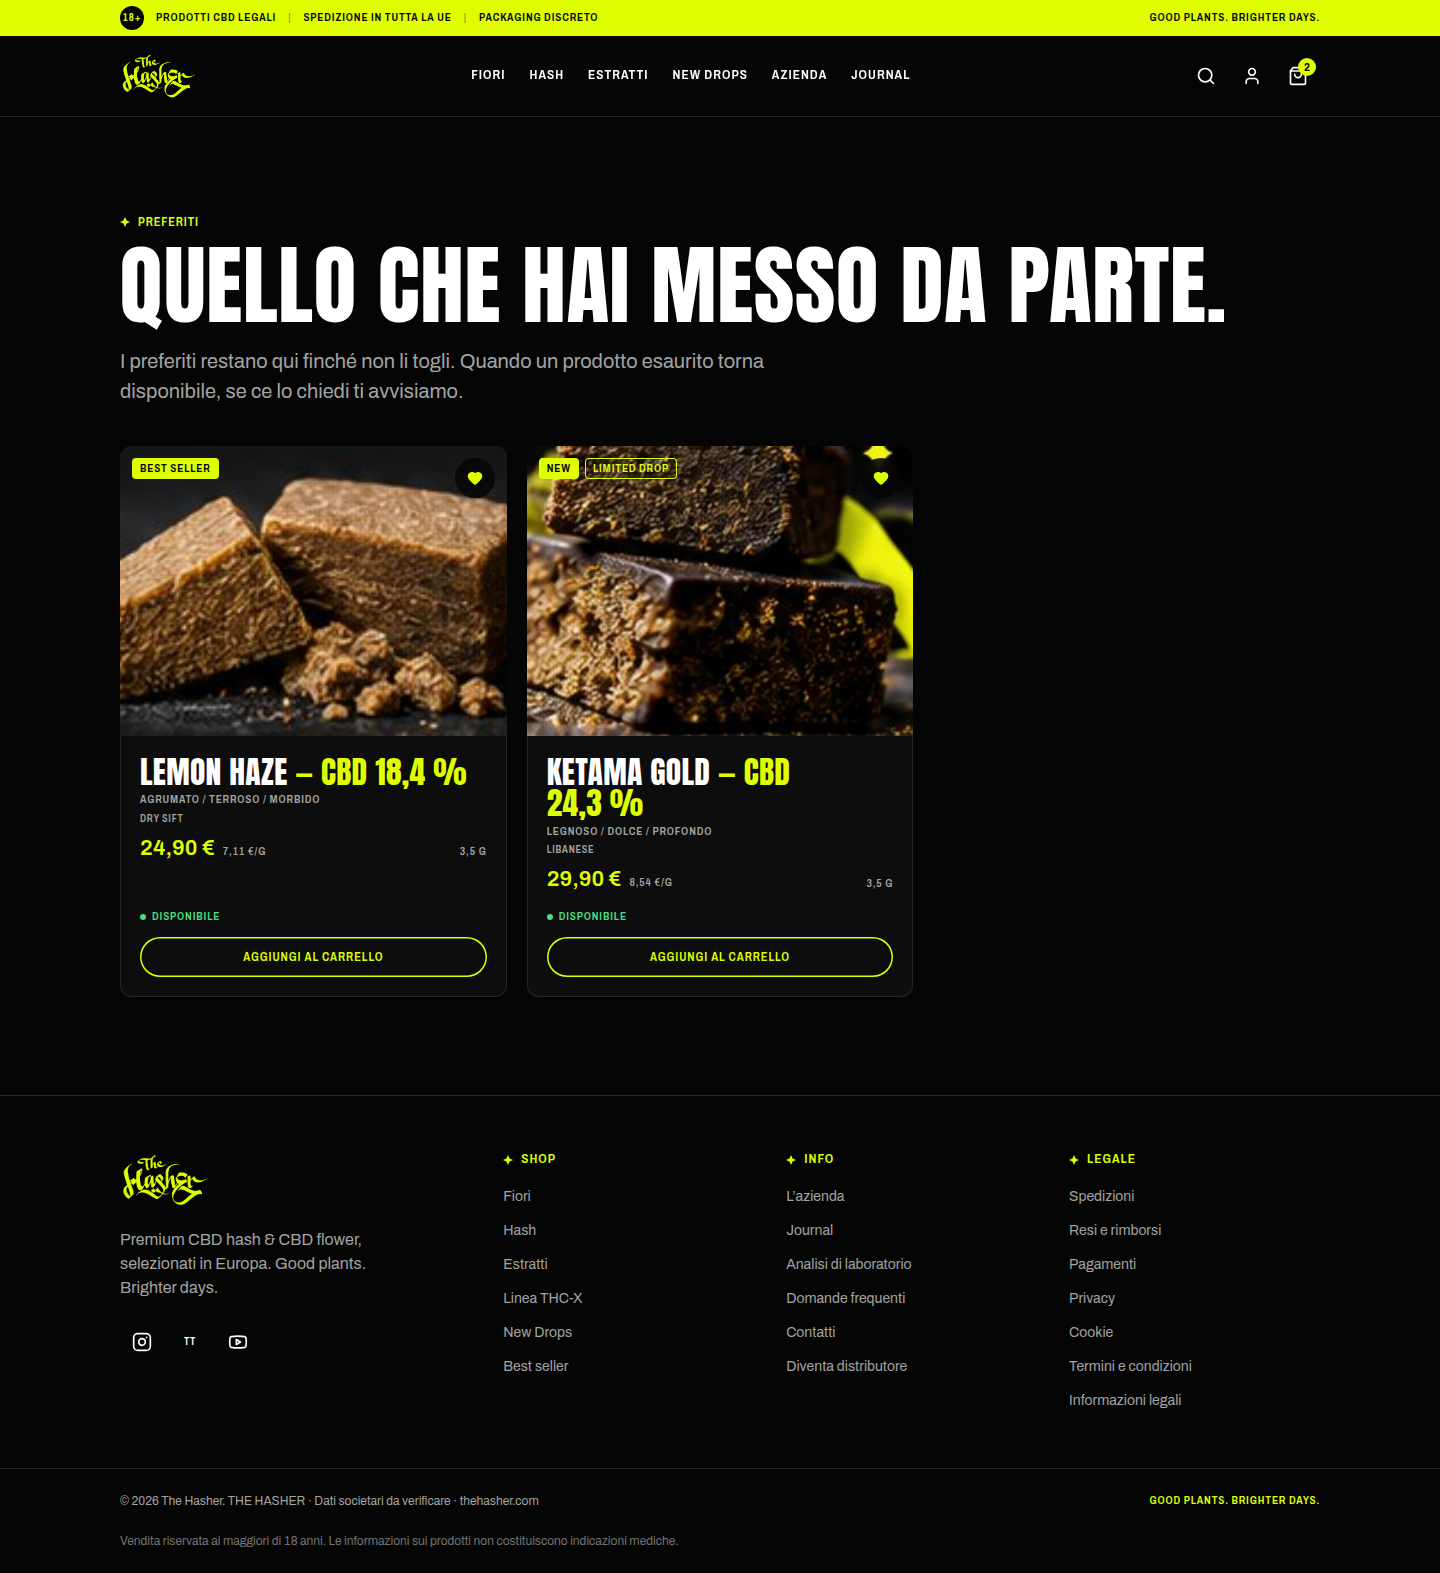
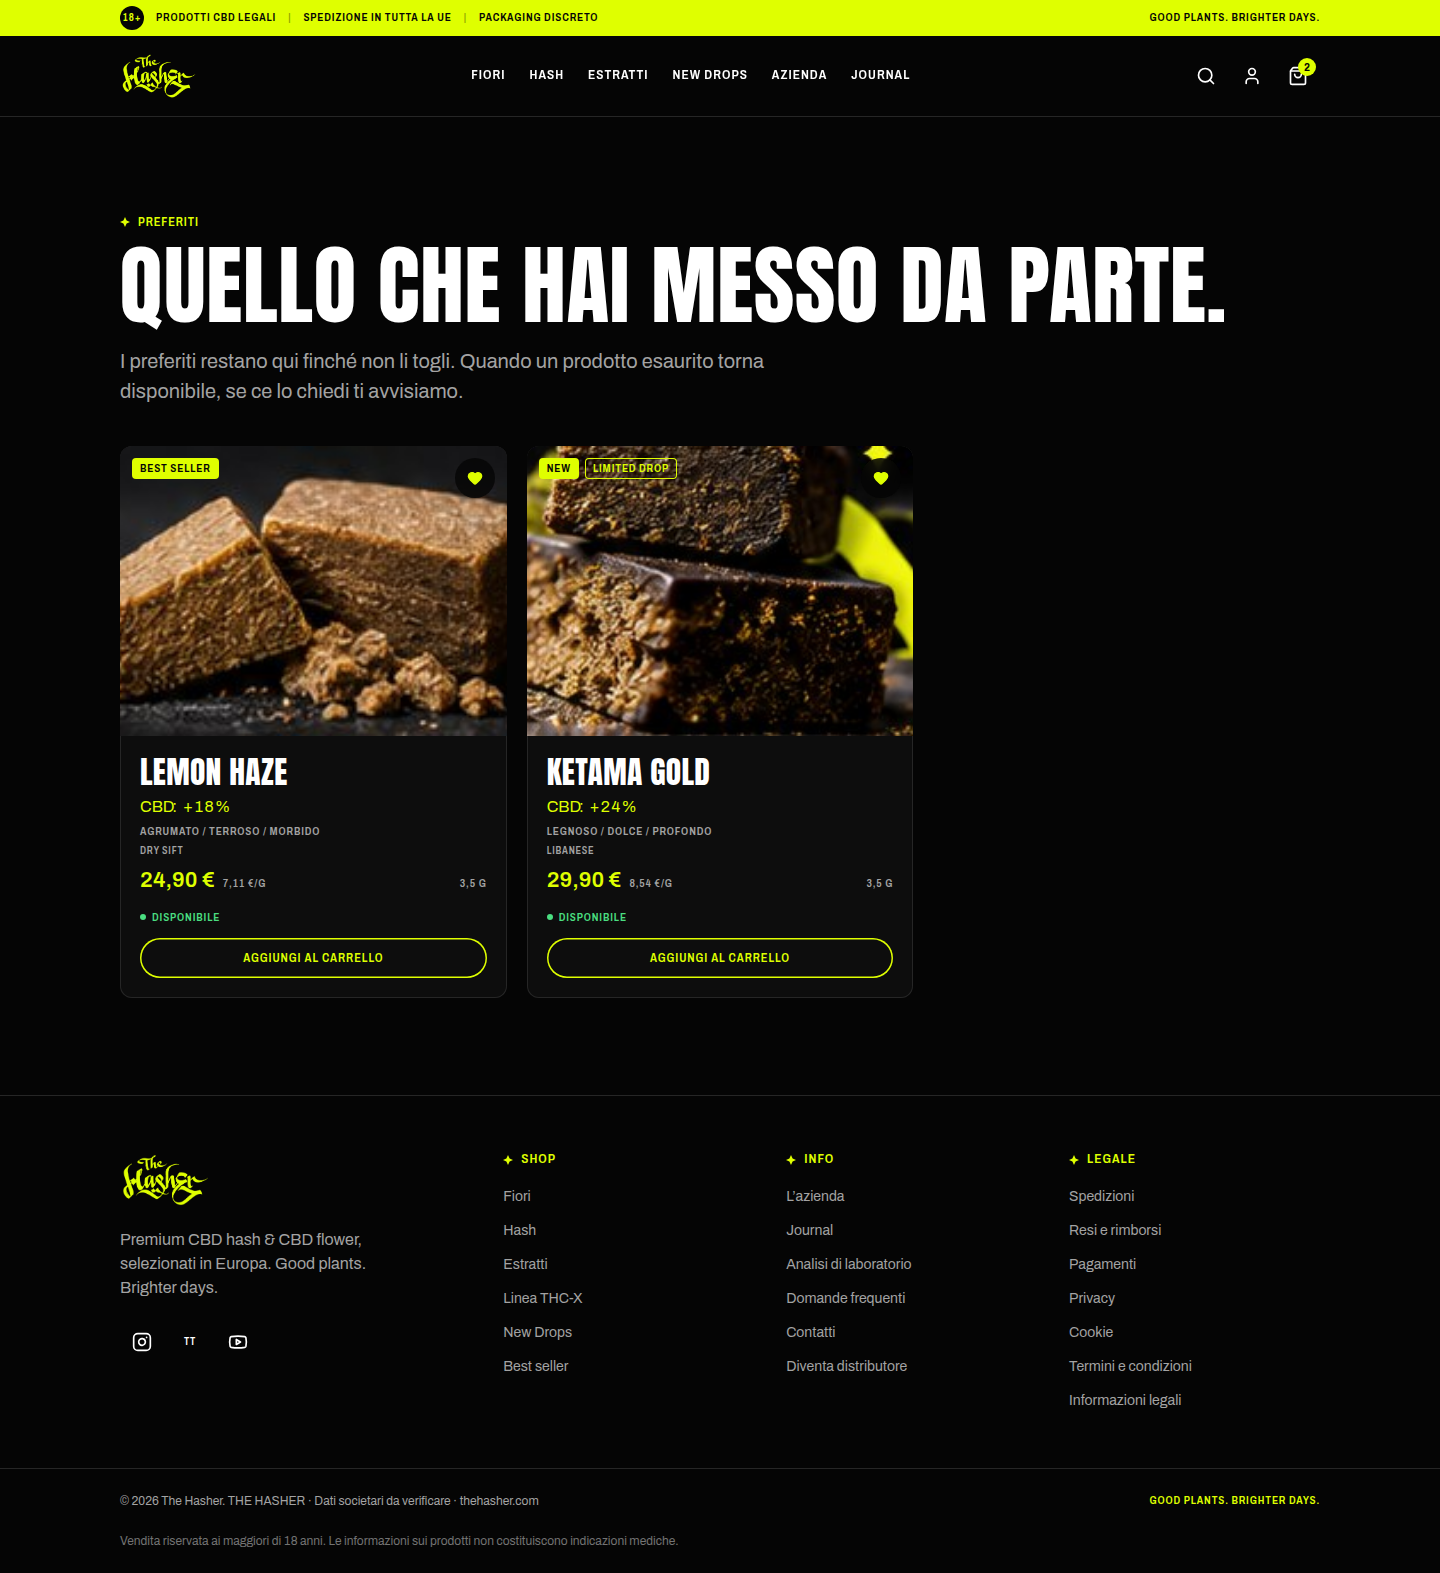
Cannabinoide come sottotitolo giallo: «CBD: +31%»
Scelta la seconda bozza. Sotto il nome del prodotto, in giallo, grassetto
e molto spaziato: sigla distanziata, valore compatto, percentuale arrotondata
all'intero sotto. Stessa regola su schede, negozio, preferiti e pagina
prodotto; la percentuale segue il cannabinoide filtrato.

Nuovo stile di testo text-attivo con il token --tracking-attivo e componente
Attivo condiviso, entrambi documentati nella Styleguide insieme alle pillole
dei filtri. Tolta la variante di prova ?stile=b.

Claude-Session: https://claude.ai/code/session_01PPPZbsQhydRMweje4EtK5n

diff --git a/src/components/ui/ProductCard.tsx b/src/components/ui/ProductCard.tsx
@@ -1,9 +1,9 @@
 import { Link } from 'react-router-dom'
+import { Attivo } from '@/components/ui/Attivo'
 import { Badge } from '@/components/ui/Badge'
 import { Button } from '@/components/ui/Button'
 import { Price } from '@/components/ui/Price'
 import {
-  attivoPrincipale,
   etichettaCategoria,
   formatQuantita,
   productPath,
@@ -22,18 +22,14 @@ import { cn } from '@/lib/cn'
 export function ProductCard({
   product,
   evidenzia,
-  percentuale = 'titolo',
   className,
 }: {
   product: Product
   /** Cannabinoide da mostrare al posto del principale (segue il filtro) */
   evidenzia?: Cannabinoide | null
-  /** Dove finisce la percentuale: dopo il nome (A) o come sottotitolo giallo (B) */
-  percentuale?: 'titolo' | 'sottotitolo'
   className?: string
 }) {
   const { add } = useCart()
-  const attivo = attivoPrincipale(product, evidenzia)
   return (
     <article
       className={cn(
@@ -67,15 +63,8 @@ export function ProductCard({
             <Link to={productPath(product.slug)} className="transition hocus:text-primary">
               {product.name}
             </Link>
-            {attivo && percentuale === 'titolo' && (
-              <span className="text-primary"> — {attivo}</span>
-            )}
           </h3>
-          {attivo && percentuale === 'sottotitolo' && (
-            <p className="mt-2 text-[0.875rem] font-bold tracking-attivo text-primary uppercase">
-              {attivo}
-            </p>
-          )}
+          <Attivo product={product} evidenzia={evidenzia} className="mt-2" />
           <p className="mt-1.5 label text-[0.6875rem] text-fg-muted">{product.aroma.join(' / ')}</p>
           <p className="mt-1.5 label text-[0.625rem] text-fg-muted">{tagLavorazione(product)}</p>
         </div>

diff --git a/src/pages/Product.tsx b/src/pages/Product.tsx
@@ -13,6 +13,7 @@ import {
 } from 'lucide-react'
 import { useEffect, useRef, useState } from 'react'
 import { Link, useParams } from 'react-router-dom'
+import { Attivo } from '@/components/ui/Attivo'
 import { Badge } from '@/components/ui/Badge'
 import { Button } from '@/components/ui/Button'
 import { Card } from '@/components/ui/Card'
@@ -25,14 +26,7 @@ import { ProductGallery } from '@/components/ui/ProductGallery'
 import { QuantityInput } from '@/components/ui/QuantityInput'
 import { Reveal } from '@/components/ui/Reveal'
 import { Section, SectionHeader } from '@/components/ui/Section'
-import {
-  attivoPrincipale,
-  categorie,
-  findProduct,
-  products,
-  tagLavorazione,
-  type Variant,
-} from '@/data/products'
+import { categorie, findProduct, products, tagLavorazione, type Variant } from '@/data/products'
 import { site } from '@/data/site'
 import { useCart } from '@/lib/cart'
 import { cn } from '@/lib/cn'
@@ -136,12 +130,8 @@ export default function Product() {
               </div>
             )}
             <Eyebrow>{categoryLabel}</Eyebrow>
-            <h1 className="mt-3 text-h1 text-pretty">
-              {product.name}
-              {attivoPrincipale(product) && (
-                <span className="text-primary"> — {attivoPrincipale(product)}</span>
-              )}
-            </h1>
+            <h1 className="mt-3 text-h1 text-pretty">{product.name}</h1>
+            <Attivo product={product} className="mt-3 text-[1.0625rem] md:text-[1.25rem]" />
             <p className="mt-3 label text-[0.75rem] text-fg-muted">
               {product.aroma.join(' / ')}
               {tagLavorazione(product) && (

diff --git a/src/pages/Styleguide.tsx b/src/pages/Styleguide.tsx
@@ -4,6 +4,7 @@ import { Button } from '@/components/ui/Button'
 import { Card } from '@/components/ui/Card'
 import { Container } from '@/components/ui/Container'
 import { Diamond } from '@/components/ui/Diamond'
+import { Chip } from '@/components/ui/Chip'
 import { Eyebrow } from '@/components/ui/Eyebrow'
 import { Input } from '@/components/ui/Input'
 import { Logo } from '@/components/ui/Logo'
@@ -60,6 +61,11 @@ const typeScale = [
     cls: 'label text-eyebrow text-primary',
     name: 'eyebrow',
     sample: 'Good plants. Brighter days.',
+  },
+  {
+    cls: 'text-attivo text-primary',
+    name: 'text-attivo · cannabinoide',
+    sample: 'CBD: +31%',
   },
 ]
 
@@ -188,6 +194,23 @@ export default function Styleguide() {
           <div className="mt-6 flex flex-wrap items-end gap-8">
             <Price cents={2490} grams={3.5} />
             <Price cents={1990} compareAt={2370} grams={3} size="lg" />
+          </div>
+
+          <h3 className="mt-12 text-h3">Pillole dei filtri</h3>
+          <div className="mt-6 flex flex-wrap items-center gap-2">
+            <Chip size="sm" active onClick={() => {}}>
+              CBD
+            </Chip>
+            <Chip size="sm" onClick={() => {}}>
+              THC-X
+            </Chip>
+            <Chip size="sm" count={6} onClick={() => {}}>
+              Indoor
+            </Chip>
+            <Chip size="sm" count={0} disabled onClick={() => {}}>
+              Trim
+            </Chip>
+            <Chip onClick={() => {}}>Misura grande</Chip>
           </div>
 
           <h3 className="mt-12 text-h3">Campi</h3>

diff --git a/src/data/products.ts b/src/data/products.ts
@@ -844,19 +844,33 @@ export function formatQuantita(p: Product) {
 }
 
 /**
- * Etichetta del cannabinoide principale, es. "CBD 18,4 %".
+ * Etichetta del cannabinoide principale, es. "CBD: +18%".
+ * La percentuale è arrotondata all'intero sotto: il lotto ne contiene almeno tanto.
  * Se si sta filtrando per un cannabinoide, mostra quello: così la percentuale
  * in pagina è sempre quella che l'utente sta cercando.
  */
 export function attivoPrincipale(p: Product, preferito?: Cannabinoide | null) {
   if (preferito) {
     const v = p.attivi[chiaveAttivo[preferito]] ?? 0
-    if (v > 0) return `${preferito} ${numero(v)} %`
+    if (v > 0) return etichettaAttivo(preferito, v)
   }
   const top = cannabinoidi
     .map((c) => ({ c, v: p.attivi[chiaveAttivo[c]] ?? 0 }))
     .sort((a, b) => b.v - a.v)[0]
-  return top && top.v > 0 ? `${top.c} ${numero(top.v)} %` : null
+  return top && top.v > 0 ? etichettaAttivo(top.c, top.v) : null
+}
+
+const etichettaAttivo = (c: Cannabinoide, v: number) => `${c}: +${Math.floor(v)}%`
+
+/**
+ * Le due parti dell'etichetta, separate: la sigla va spaziata, il valore no.
+ * Serve al sottotitolo giallo di schede e pagina prodotto.
+ */
+export function attivoParti(p: Product, preferito?: Cannabinoide | null) {
+  const label = attivoPrincipale(p, preferito)
+  if (!label) return null
+  const [sigla, valore] = label.split(': ')
+  return { sigla: sigla!, valore: valore! }
 }
 
 /** Lotti certificati senza THC: è un'etichetta, non l'assenza di dichiarazione. */

diff --git a/src/pages/Shop.tsx b/src/pages/Shop.tsx
@@ -38,8 +38,6 @@ export default function Shop() {
   const filtri = leggiFiltri(params)
   const mostrati = applica(filtri)
   const attivi = attiviDi(filtri)
-  // Bozza da scegliere: ?stile=b mette la percentuale come sottotitolo giallo.
-  const percentuale = params.get('stile') === 'b' ? 'sottotitolo' : 'titolo'
 
   /** Aggiorna un filtro nell'indirizzo; null lo toglie. */
   const setFilter = (key: string, value: string | null) => {
@@ -211,7 +209,6 @@ export default function Shop() {
                   <ProductCard
                     product={p}
                     evidenzia={filtri.cannabinoide ?? (filtri.linea as Cannabinoide | null)}
-                    percentuale={percentuale}
                     className="h-full"
                   />
                 </Reveal>

diff --git a/src/components/ui/Attivo.tsx b/src/components/ui/Attivo.tsx
@@ -1,0 +1,26 @@
+import { attivoParti, type Cannabinoide, type Product } from '@/data/products'
+import { cn } from '@/lib/cn'
+
+/**
+ * Sottotitolo del cannabinoide: "CBD: +31%".
+ * La sigla è molto spaziata, il valore resta compatto (e il margine negativo
+ * recupera lo spazio che la spaziatura lascia prima dei due punti).
+ */
+export function Attivo({
+  product,
+  evidenzia,
+  className,
+}: {
+  product: Product
+  evidenzia?: Cannabinoide | null
+  className?: string
+}) {
+  const parti = attivoParti(product, evidenzia)
+  if (!parti) return null
+  return (
+    <p className={cn('text-attivo text-primary', className)}>
+      <span className="-mr-attivo">{parti.sigla}</span>
+      <span className="tracking-label">: {parti.valore}</span>
+    </p>
+  )
+}

diff --git a/src/styles/index.css b/src/styles/index.css
@@ -72,6 +72,16 @@
 }
 
 /* Etichetta del brand: condensata, maiuscola, spaziata (badge, eyebrow, nav) */
+/* Sottotitolo del cannabinoide sulle schede e sulla pagina prodotto: giallo, grassetto, molto spaziato. */
+@utility text-attivo {
+  @apply text-[0.875rem] font-bold tracking-attivo uppercase;
+}
+
+/* Recupera lo spazio che la spaziatura larga lascia dopo l'ultima lettera. */
+@utility -mr-attivo {
+  margin-right: calc(var(--tracking-attivo) * -0.55);
+}
+
 @utility label {
   @apply text-label font-semibold tracking-label uppercase;
   font-stretch: 80%;

diff --git a/design/DECISIONS.md b/design/DECISIONS.md
@@ -51,3 +51,5 @@
 - 2026-09-27 · Linee madri portate a quattro (CBD, THC-X, CBG, CBN) più l'etichetta THC free per i lotti certificati 0,0 % · sono le cinque pillole della seconda riga del negozio, tutte visibili a 390 px senza scorrere
 - 2026-09-27 · Aggiunti cinque prodotti demo a dominanza CBG e CBN (fiore, hash, isolati, olio notte) · senza prodotti i filtri nuovi resterebbero vuoti
 - 2026-09-27 · La percentuale mostrata segue il filtro: se cerchi CBG vedi il CBG, non il cannabinoide più alto · due bozze a confronto per dove metterla (nel titolo o come sottotitolo giallo), scelta di Lorenzo
+- 2026-09-27 · Scelta di Lorenzo: la percentuale va come sottotitolo giallo sotto il nome, in grassetto e molto spaziato, nel formato «CBD: +31%» · la sigla è spaziata, il valore resta compatto; arrotondiamo all'intero sotto, così il lotto contiene sempre almeno quel valore
+- 2026-09-27 · Nuovo stile di testo `text-attivo` (token `--tracking-attivo`) e componente `Attivo` · un unico posto per il sottotitolo del cannabinoide, documentato nella Styleguide
